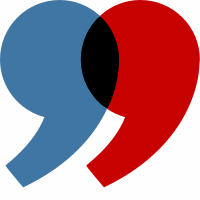
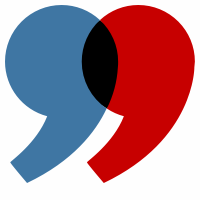
updating promos

diff --git a/content/promo/promo_accessibility-guide.md b/content/promo/promo_accessibility-guide.md
@@ -11,7 +11,7 @@ src: 'https://accessibility.digital.gov/'
 
 # Images need to be 200x200px with a transparent background
 # Upload images to /static/images/promos/filename.png
-icon: ""
+icon: "accessibility.png"
 
 # Weight control how these promos appear on the site
 # 3 == will be part of the rotaion on the homepage
